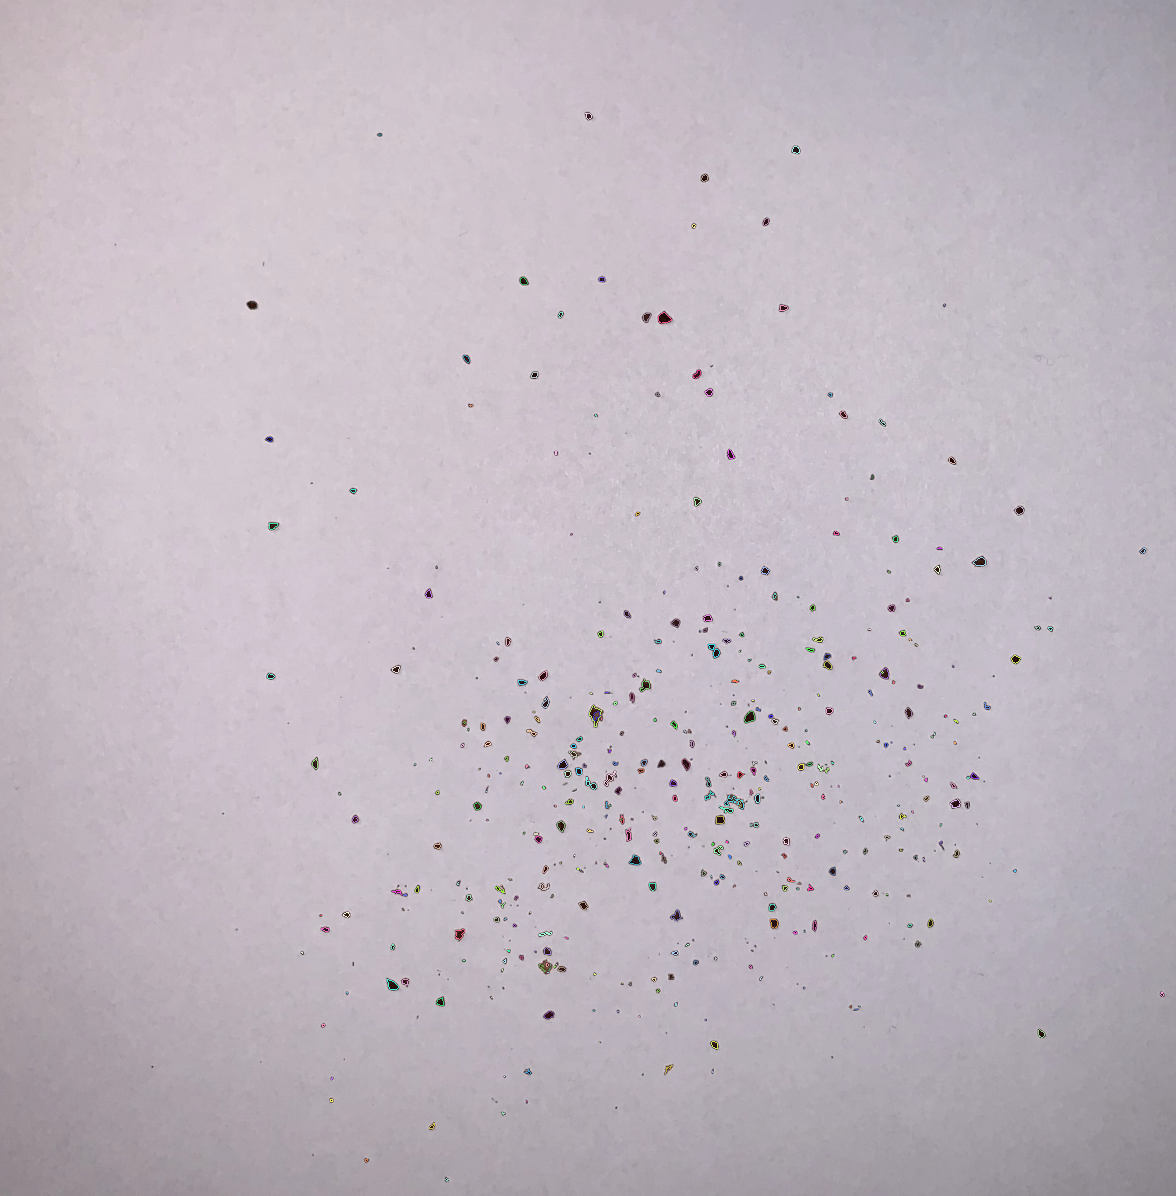
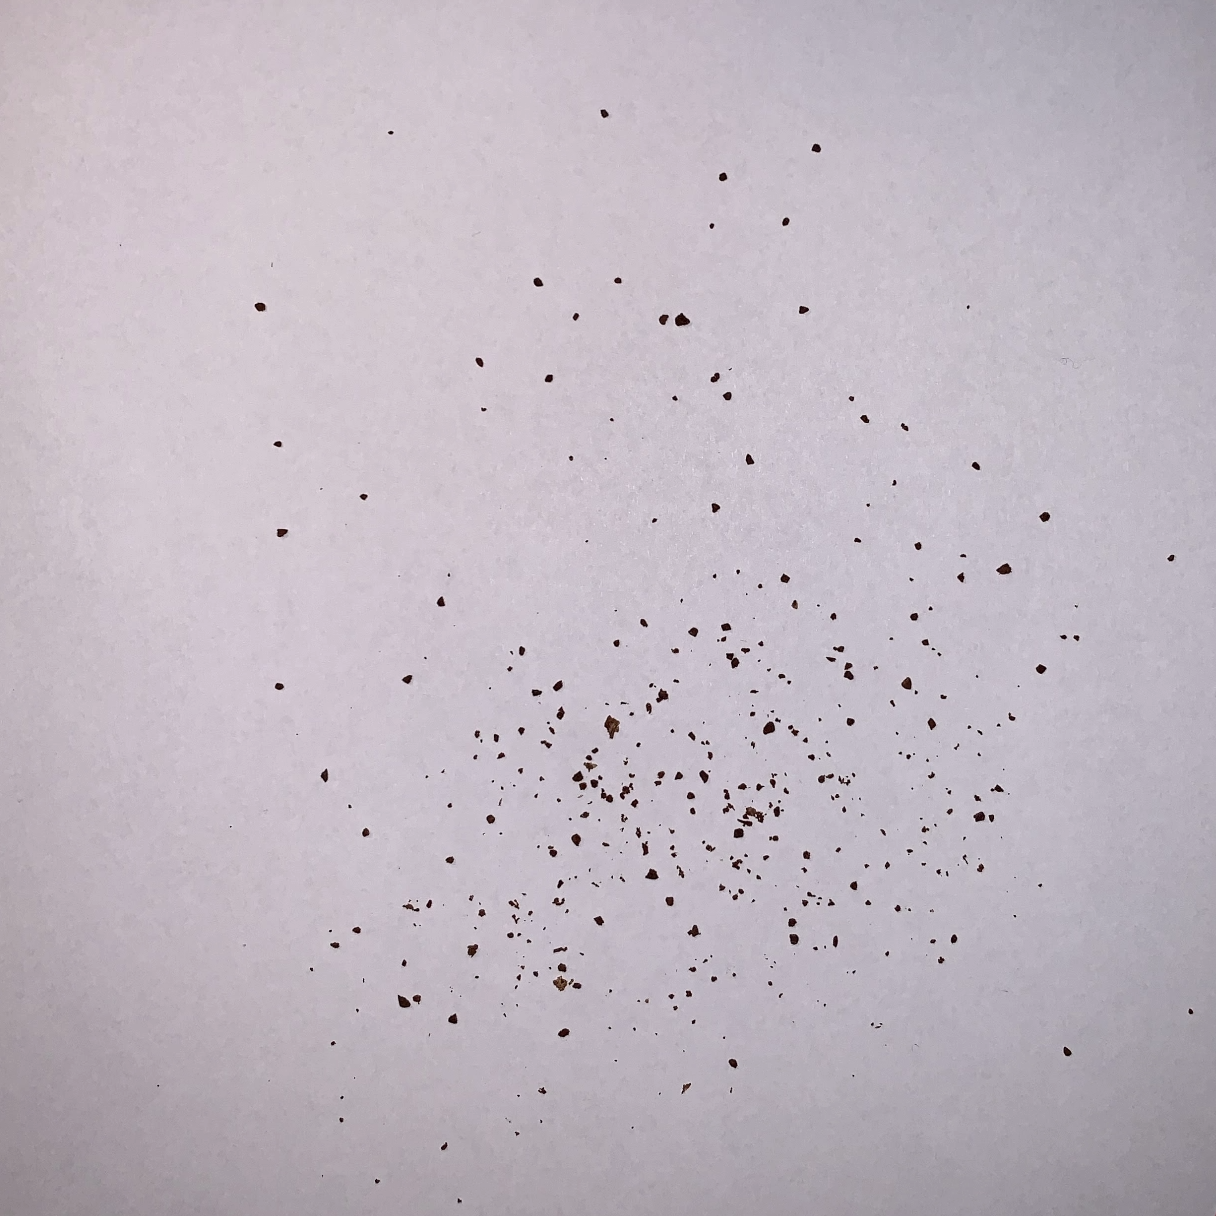
average in mm

diff --git a/scripts.js b/scripts.js
@@ -240,30 +240,29 @@ function use_image() {
     reset_menu("Step2_reset");
     test("Step3");
 
-    input = document.getElementById("canvasInput");
-    output = document.getElementById("base_image");
-
     let src = cv.imread("canvasInput");
+
     let dst = new cv.Mat();
-    let circles = new cv.Mat();
 
     let low = new cv.Mat(src.rows, src.cols, src.type(), [80, 0, 0, 0]);
     let high = new cv.Mat(src.rows, src.cols, src.type(), [255, 100, 100, 255]);
 
     cv.inRange(src, low, high, dst);
+
     let M = cv.Mat.ones(5, 5, cv.CV_8U);
     let anchor = new cv.Point(-1, -1);
     cv.erode(dst, dst, M, anchor, 1, cv.BORDER_CONSTANT, cv.morphologyDefaultBorderValue());
+
+    let circles = new cv.Mat();
+
     cv.HoughCircles(dst, circles, cv.HOUGH_GRADIENT, 1, 500, 10, 10, 0, 500);
 
     const centres = [];
-
     var x_low = 100000;
     var x_high = -1;
     var y_low = 100000;
     var y_high = -1;
     var max_rad = -1;
-
     for (let i = 0; i < circles.cols; ++i) {
         let x = circles.data32F[i * 3];
         let y = circles.data32F[i * 3 + 1];
@@ -288,29 +287,55 @@ function use_image() {
         let center = new cv.Point(x, y);
         centres.push(center);
     }
-    output.width = x_high-x_low-2*max_rad;
-    output.height = y_high-y_low-2*max_rad;
-    output.getContext('2d').drawImage(input, x_low+max_rad, y_low+max_rad, x_high-x_low-2*max_rad, y_high-y_low-2*max_rad, 0, 0, x_high-x_low-2*max_rad, y_high-y_low-2*max_rad);
 
-    var color_image = cv.imread("base_image");
+    var distances = [];
+    for (let i = 0; i < centres.length; i++) {
+        for (let j = i+1; j < centres.length; j++) {
+            distances.push(Math.sqrt(((centres[j].x - centres[i].x)*(centres[j].x - centres[i].x)) + ((centres[j].y - centres[i].y)*(centres[j].y - centres[i].y))));
+        }
+    }
+
+    distances = distances.sort(function(a, b) {
+    return a - b;
+    });
+
+    distances = distances.splice(0, 4);
+
+    ref_before = distances.at(-1);
+    const known_dist_mu = 150000;
+    cols_before = dst.cols;
+
+    min_width = Math.min(x_high-x_low, y_high-y_low);
+    max_rad = 2 * max_rad;
+    let roi = new cv.Rect(x_low+max_rad, y_low+max_rad, min_width-2*max_rad, min_width-2*max_rad);
+    dst = src.roi(roi);
+
+    cols_after = dst.cols;
+
+    scaler = known_dist_mu / ref_before;
+    factor = cols_after / cols_before;
+    scaler = scaler * factor;
+    
     var grey_image = new cv.Mat();
     var thresh_image = new cv.Mat();
-    cv.cvtColor(color_image, grey_image, cv.COLOR_RGBA2GRAY, 0);
-    cv.threshold(grey_image, thresh_image, 60, 255, cv.THRESH_BINARY_INV);
+
+    cv.cvtColor(dst, grey_image, cv.COLOR_RGBA2GRAY, 0);
+    cv.threshold(grey_image, thresh_image, 70, 255, cv.THRESH_BINARY_INV);
 
     let contours = new cv.MatVector();
     let hierarchy = new cv.Mat();
 
-    cv.findContours(thresh_image, contours, hierarchy, cv.RETR_CCOMP, cv.CHAIN_APPROX_SIMPLE);
+    cv.findContours(thresh_image, contours, hierarchy, cv.RETR_EXTERNAL, cv.CHAIN_APPROX_TC89_KCOS);
 
-    cv.cvtColor(color_image, color_image, cv.COLOR_RGBA2RGB, 0);
-    
+    cv.cvtColor(dst, dst, cv.COLOR_RGBA2RGB, 0);
+
     for (let i = 0; i < contours.size(); ++i) {
         let color = new cv.Scalar(Math.round(Math.random() * 200)+55, Math.round(Math.random() * 200)+55,
                                   Math.round(Math.random() * 200)+55);
-        cv.drawContours(color_image, contours, i, color, 1, cv.LINE_8, hierarchy, 100);
+        cv.drawContours(dst, contours, i, color, 1, cv.LINE_8, hierarchy, 100);
     }
-    cv.imshow('base_image', color_image);
+
+    cv.imshow("base_image", dst);
 
     var num_particles = contours.size();
     var sum_avg_dia = 0;
@@ -318,10 +343,12 @@ function use_image() {
     for (let i = 0; i < contours.size(); ++i) {
         let area = cv.contourArea(contours.get(i), false);
         let equiDiameter = Math.sqrt(4 * area / Math.PI);
-        sum_avg_dia = sum_avg_dia + equiDiameter;
+        sum_avg_dia = sum_avg_dia + equiDiameter * scaler;
     }
 
     avg_dia = sum_avg_dia / num_particles;
+
+    console.log(num_particles);
 
     document.getElementById("Step3_h").innerHTML = avg_dia;
 }
